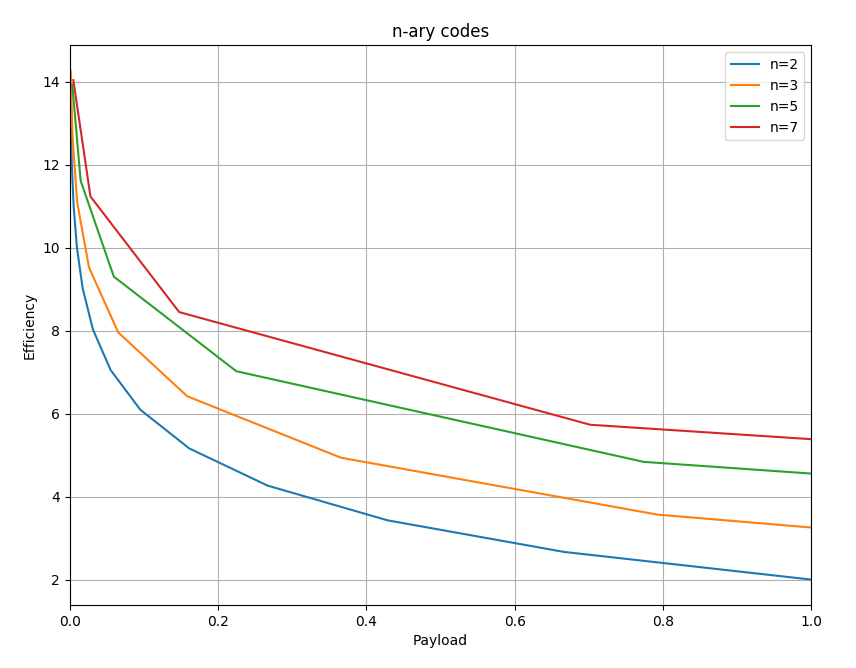
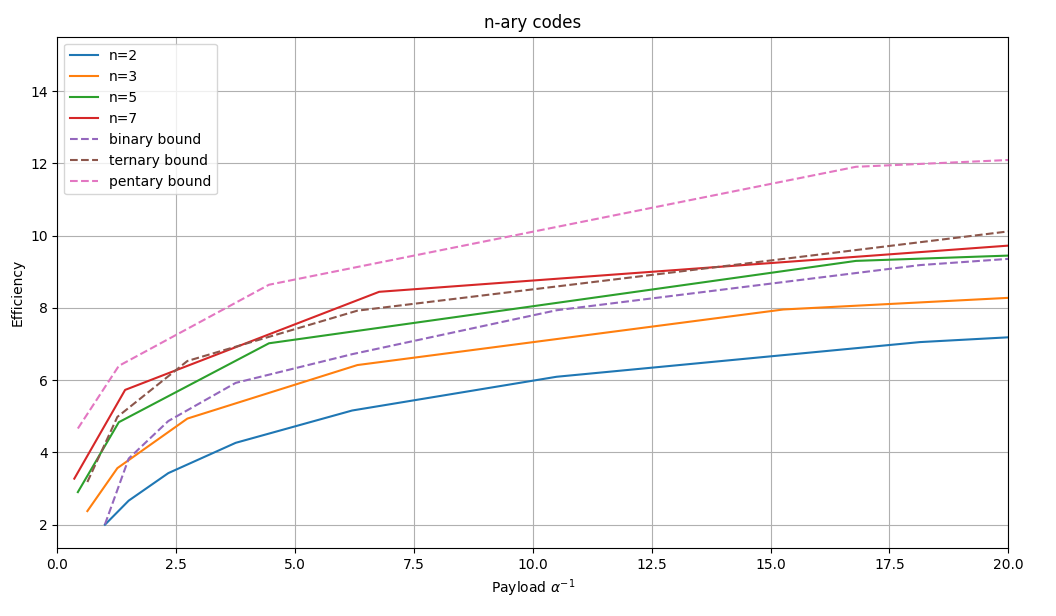
bounds (imageS)

diff --git a/stego/plot-tools/n-ary-codes.py b/stego/plot-tools/n-ary-codes.py
@@ -96,6 +96,7 @@ def get_bound_binary(n, p_range):
 
         print(p, round(alpha,2), y, round(e,2))
 
+        alpha = 1/alpha
         payload.append(alpha)
         efficiency.append(e)
 
@@ -117,6 +118,7 @@ def get_bound_ternary(n, p_range):
 
         print(p, round(alpha,2), y, round(e,2))
 
+        alpha = 1/alpha
         payload.append(alpha)
         efficiency.append(e)
 
@@ -135,11 +137,12 @@ def get_bound_pentary(n, p_range):
         y = iH5(alpha)
         e = alpha/y
 
-        if round(alpha,2) <= 0.02:
+        if round(alpha,2) <= 0.00:
             continue
 
         print(p, round(alpha,2), y, round(e,2))
 
+        alpha = 1/alpha
         payload.append(alpha)
         efficiency.append(e)
 
@@ -157,6 +160,7 @@ def get_series(n, p_range):
     print("-- n:", n, "--")
     for p in p_range:
         alpha = p*np.log2(n) / ( (n**p-1)/(n-1) )
+        alpha = 1/alpha
         e = p*np.log2(n) / (1-n**(-p) )
 
         print(p, round(alpha,2), round(e,2))
@@ -177,18 +181,18 @@ payload, efficiency = get_series(7, range(1,6))
 plt.plot(payload, efficiency, label='n=7')
 
 
-payload, efficiency = get_bound_binary(2, range(1,15))
+payload, efficiency = get_bound_binary(2, range(1,10))
 plt.plot(payload, efficiency, label='binary bound', linestyle='dashed')
 
-payload, efficiency = get_bound_ternary(3, range(1,15))
+payload, efficiency = get_bound_ternary(3, range(1,10))
 plt.plot(payload, efficiency, label='ternary bound', linestyle='dashed')
 
-payload, efficiency = get_bound_pentary(5, range(1,15))
+payload, efficiency = get_bound_pentary(5, range(1,10))
 plt.plot(payload, efficiency, label='pentary bound', linestyle='dashed')
 
 
-plt.xlim(0, 1)
-plt.xlabel('Payload')
+plt.xlim(0, 20)
+plt.xlabel(r'Payload $\alpha^{-1}$')
 plt.ylabel('Efficiency')
 plt.title('n-ary codes')
 plt.grid(True)

diff --git a/stego/plot-tools/binary-codes.py b/stego/plot-tools/binary-codes.py
@@ -6,6 +6,7 @@ import matplotlib.pyplot as plt
 import numpy as np
 
 
+#plt.rcParams['text.usetex'] = True
 
 
 # Binary entropy function
@@ -34,6 +35,7 @@ def get_series(n, p_range):
     print("-- n:", n, "--")
     for p in p_range:
         alpha = p*np.log2(n) / ( (n**p-1)/(n-1) )
+        alpha = 1/alpha
         e = p*np.log2(n) / (1-n**(-p) )
 
         print(p, round(alpha,2), round(e,2))
@@ -56,6 +58,7 @@ def get_bound(n, p_range):
 
         print(p, round(alpha,2), y, round(e,2))
 
+        alpha = 1/alpha
         payload.append(alpha)
         efficiency.append(e)
 
@@ -64,10 +67,10 @@ def get_bound(n, p_range):
 
 
 
-payload, efficiency = get_series(2, range(1,15))
+payload, efficiency = get_series(2, range(1, 10))
 plt.plot(payload, efficiency, label='n=2')
 
-payload, efficiency = get_bound(2, range(1,15))
+payload, efficiency = get_bound(2, range(1,10))
 plt.plot(payload, efficiency, label='bound', linestyle='dashed')
 
 #efficiency = [7, 6.2, 5.9,  4.1]
@@ -78,8 +81,8 @@ plt.plot(payload, efficiency, label='bound', linestyle='dashed')
 
 
 plt.ylim(0, 10)
-plt.xlim(0, 1)
-plt.xlabel('Payload')
+plt.xlim(0, 20)
+plt.xlabel(r'Payload $\alpha^{-1}$')
 plt.ylabel('Efficiency')
 plt.title('binary codes')
 plt.grid(True)

diff --git a/stego/lab/codes/binary-hamming-en.md b/stego/lab/codes/binary-hamming-en.md
@@ -239,11 +239,13 @@ $e_p = \frac{p}{ 1-2^{-p} }$
 Continuing with our example, the efficiency for $p=3$ is $3.429$. Superior to our initial example, which had an efficiency of $2.66$.
 
 In the following graph we can see the relationship between *payload* and efficiency.
+Actually, for better graphical representation, the inverse of *payload* ($1/\alpha^-{1}$) is used.
 
 
 ![efficiency](/stego/blog/resources/binary-codes.png?style=centerme)
 
-As you can see in the graph, the highest efficiency is achieved with very small *payloads*.
+As you can see in the graph, the highest efficiency is achieved with very small *payloads*
+(very high $1/\alpha^-{1}$ values).
 
 
 

diff --git a/stego/lab/codes/binary-hamming-es.md b/stego/lab/codes/binary-hamming-es.md
@@ -290,12 +290,13 @@ Siguiendo con nuestro ejemplo, la eficiencia para $p=3$ es de $3.429$. Superior 
 nuestro ejemplo inicial, que tenía una eficiencia de $2.66$.
 
 En el siguiente gráfico podemos ver la relación entre el *payload* y la eficiencia.
+En realidad, para una mejor visualización, se usa el inverso del *payload* ($1/\alpha^-{1}$).
 
 
 ![efficiency](/stego/blog/resources/binary-codes.png?style=centerme)
 
 Como se puede ver en la gráfica, la mayor eficiencia se consigue con *payloads* 
-muy pequeños. 
+muy pequeños ($\alpha^{-1}$ muy grande). 
 
 
 

diff --git a/stego/lab/codes/ternary-hamming-es.md b/stego/lab/codes/ternary-hamming-es.md
@@ -196,7 +196,8 @@ Y para calcular la eficiencia:
 $e_p = \frac{p \log_2 n}{1-n^{-p}}$
 
 Esto nos permite dibujar una gráfica para ver la eficiencia respecto el
-*payload* para diferentes valores de $p$ y $n$:
+*payload* para diferentes valores de $p$ y $n$.
+Para una mejor visualización, se usa el inverso del *payload* ($1/\alpha^-{1}$).
 
 ![efficiency](/stego/blog/resources/n-ary-codes.png?style=centerme)
 

diff --git a/stego/lab/codes/ternary-hamming-en.md b/stego/lab/codes/ternary-hamming-en.md
@@ -162,7 +162,9 @@ $e_p = \frac{p \log_2 n}{1-n^{-p}}$
 </center>
 
 This allows us to draw a graph to see the efficiency with respect to the
-payload for different values of $p$ and $n$:
+payload for different values of $p$ and $n$.
+For better graphical representation, the inverse of *payload* ($1/\alpha^-{1}$) is used.
+
 
 ![efficiency](/stego/blog/resources/n-ary-codes.png?style=centerme)
 
